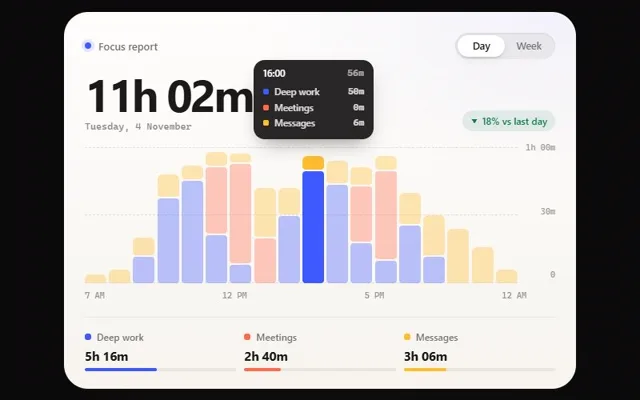
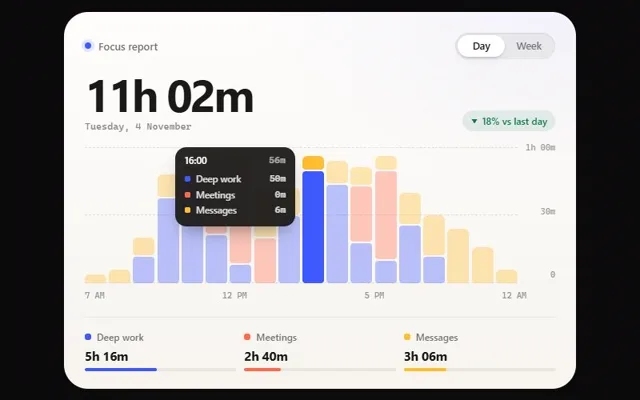
focus-usage-card: tooltip stays inside the plot beside the hovered bar
Review fix: it no longer collides with the total; it flips to the bar's left past the middle.

Changed region(s): [[0.25, 0.15, 0.5938, 0.6]]

diff --git a/components/focus-usage-card/focus-usage-card.tsx b/components/focus-usage-card/focus-usage-card.tsx
@@ -57,8 +57,14 @@ export function niceMax(max: number) {
   return Math.ceil(max / 300) * 300
 }
 
-/** Tooltip anchor, in percent of the chart width, kept clear of the edges. */
-export const tipLeft = (i: number, n: number) => Math.min(84, Math.max(16, ((i + 0.5) / Math.max(n, 1)) * 100))
+/** Where the tooltip sits: inside the plot, beside the hovered bar. Left of the middle it
+ *  hangs off the bar's right edge (left = % from the left); past it, off the bar's left
+ *  edge (right = % from the right). */
+export const tipAt = (i: number, n: number) => {
+  const m = Math.max(n, 1)
+  const flip = (i + 0.5) / m > 0.5
+  return flip ? { flip, right: ((m - i) / m) * 100 } : { flip, left: ((i + 1) / m) * 100 }
+}
 // #endregion
 
 const SANS = 'ui-sans-serif,system-ui,-apple-system,"Segoe UI",sans-serif'
@@ -103,9 +109,10 @@ const CSS =
   ".fuc-bar:focus-visible .fuc-stack{outline:2px solid #3d5afe;outline-offset:2px;border-radius:4px}" +
   ".fuc-y{display:flex;flex-direction:column;justify-content:space-between;height:170px;font:500 10.5px/1 " + MONO + ";color:rgba(27,26,23,.42);text-align:right;margin-top:-5px}" +
   ".fuc-x{display:flex;justify-content:space-between;margin:10px 0 0;padding-right:36px;font:500 10.5px/1 " + MONO + ";color:rgba(27,26,23,.45)}" +
-  ".fuc-tip{position:absolute;bottom:calc(100% + 10px);z-index:3;transform:translateX(-50%);min-width:150px;padding:10px 12px;border-radius:14px;color:#fff;background:rgba(27,26,23,.94);" +
-  "box-shadow:0 12px 24px -10px rgba(27,26,23,.5);pointer-events:none;animation:fuc-tip .3s " + SPRING + " both;transition:left .25s " + EASE + "}" +
-  "@keyframes fuc-tip{from{opacity:0;transform:translate(-50%,6px) scale(.96)}to{opacity:1;transform:translateX(-50%)}}" +
+  ".fuc-tip{position:absolute;top:0;z-index:3;margin:0 8px;min-width:150px;padding:10px 12px;border-radius:14px;color:#fff;background:rgba(27,26,23,.94);" +
+  "box-shadow:0 12px 24px -10px rgba(27,26,23,.5);pointer-events:none;transform-origin:0 0;animation:fuc-tip .3s " + SPRING + " both}" +
+  ".fuc-tip[data-flip=true]{transform-origin:100% 0}" +
+  "@keyframes fuc-tip{from{opacity:0;transform:scale(.94)}to{opacity:1;transform:none}}" +
   ".fuc-tip b{display:flex;justify-content:space-between;font:600 12px/1 " + SANS + ";margin-bottom:8px}" +
   ".fuc-tip b span{font-family:" + MONO + ";font-weight:500;color:rgba(255,255,255,.6)}" +
   ".fuc-tip div{display:flex;align-items:center;gap:7px;font:500 11.5px/1.7 " + SANS + ";color:rgba(255,255,255,.82)}" +
@@ -188,7 +195,13 @@ export default function FocusUsageCard({ title = "Screen time", categories, view
               <i />
             </div>
             {h && (
-              <div className="fuc-tip" style={{ left: tipLeft(hover, bars.length) + "%" }} role="status">
+              <div
+                className="fuc-tip"
+                key={hover}
+                data-flip={tipAt(hover, bars.length).flip}
+                style={tipAt(hover, bars.length).flip ? { right: tipAt(hover, bars.length).right + "%" } : { left: tipAt(hover, bars.length).left + "%" }}
+                role="status"
+              >
                 <b>
                   {h.label}
                   <span>{fmtMinutes(h.values.reduce((a, b) => a + b, 0))}</span>

diff --git a/components/focus-usage-card/README.md b/components/focus-usage-card/README.md
@@ -1,6 +1,6 @@
 # Focus Usage Card
 
-A usage-analytics card on warm paper: a big total, a change chip, and a stacked bar chart split by category. The bars grow from the baseline on a spring with a left-to-right stagger. Hovering or focusing a bar dims the rest and pops a dark tooltip with that slot's breakdown. A segmented control swaps between views (say Day and Week); its pill slides across, the total blurs in, and the new bars grow. Under the chart, each category shows its time and a meter that fills to its share.
+A usage-analytics card on warm paper: a big total, a change chip, and a stacked bar chart split by category. The bars grow from the baseline on a spring with a left-to-right stagger. Hovering or focusing a bar dims the rest and pops a dark tooltip beside it, inside the plot, with that slot's breakdown. A segmented control swaps between views (say Day and Week); its pill slides across, the total blurs in, and the new bars grow. Under the chart, each category shows its time and a meter that fills to its share.
 
 ```tsx
 import FocusUsageCard from "@/components/ui/focus-usage-card"
@@ -31,7 +31,7 @@ import FocusUsageCard from "@/components/ui/focus-usage-card"
 
 ## Notes
 
-- Bar heights are percentages of a rounded y-axis top (`niceMax`), and the tooltip sits at a percentage across the plot, so nothing is measured.
+- Bar heights are percentages of a rounded y-axis top (`niceMax`), and the tooltip hangs off the hovered bar at a percentage of the plot (flipping left past the middle), so nothing is measured.
 - Every bar is a button with an `aria-label`, and the tooltip follows keyboard focus.
 - Reduced motion: no growth, pop-in or slide; the chart just appears.
 - No images and no dependencies beyond React.
